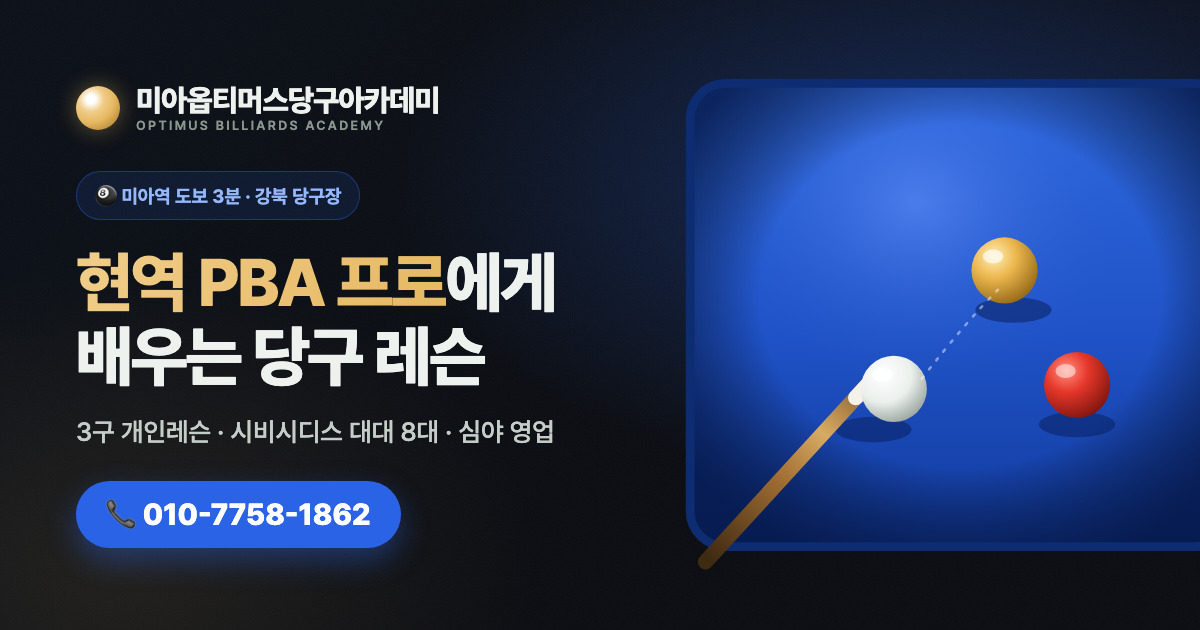
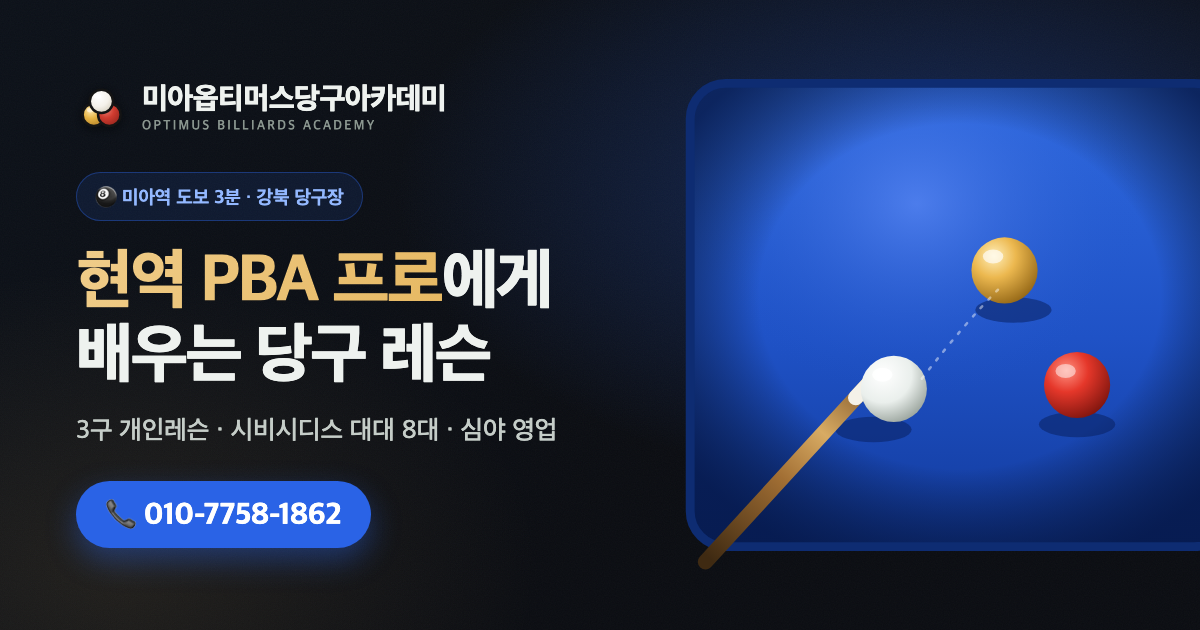
카톡/공유 프리뷰(og.png) 로고 최신화 — og.html 헤더 골드 공 → 3구 세트 로고로 교체 후 1200×630 재렌더. og:image URL에 ?v=2 붙여 카톡·스크레이퍼 캐시 무효화

diff --git a/og.html b/og.html
@@ -33,7 +33,21 @@
 <body>
   <div class="grain"></div>
   <div class="left">
-    <div class="brand"><span class="ball"></span><span><b>미아옵티머스당구아카데미</b><small>OPTIMUS BILLIARDS ACADEMY</small></span></div>
+    <div class="brand">
+      <svg width="50" height="50" viewBox="0 0 120 120" xmlns="http://www.w3.org/2000/svg" style="flex:none;filter:drop-shadow(0 2px 6px rgba(0,0,0,.5));">
+        <defs>
+          <radialGradient id="obw" cx="38%" cy="30%" r="72%"><stop offset="0%" stop-color="#fff"/><stop offset="60%" stop-color="#f4f1ea"/><stop offset="100%" stop-color="#d9d3c4"/></radialGradient>
+          <radialGradient id="oby" cx="36%" cy="30%" r="74%"><stop offset="0%" stop-color="#ffe9ad"/><stop offset="50%" stop-color="#e6b445"/><stop offset="100%" stop-color="#b9862a"/></radialGradient>
+          <radialGradient id="obr" cx="36%" cy="30%" r="74%"><stop offset="0%" stop-color="#e8756a"/><stop offset="48%" stop-color="#cf3b2f"/><stop offset="100%" stop-color="#9a271f"/></radialGradient>
+        </defs>
+        <g stroke="#141414" stroke-width="6">
+          <circle cx="43" cy="76" r="27" fill="url(#oby)"/><ellipse cx="34" cy="65" rx="8" ry="5.5" fill="#fff" opacity=".5" stroke="none"/>
+          <circle cx="80" cy="76" r="27" fill="url(#obr)"/><ellipse cx="71" cy="65" rx="8" ry="5.5" fill="#fff" opacity=".38" stroke="none"/>
+          <circle cx="61" cy="44" r="28" fill="url(#obw)"/><ellipse cx="51" cy="32" rx="9" ry="6" fill="#fff" opacity=".9" stroke="none"/>
+        </g>
+      </svg>
+      <span><b>미아옵티머스당구아카데미</b><small>OPTIMUS BILLIARDS ACADEMY</small></span>
+    </div>
     <span class="eyebrow">🎱 미아역 도보 3분 · 강북 당구장</span>
     <h1><span class="g">현역 PBA 프로</span>에게<br>배우는 당구 레슨</h1>
     <div class="sub">3구 개인레슨 · 시비시디스 대대 8대 · 심야 영업</div>

diff --git a/index.html b/index.html
@@ -18,9 +18,9 @@
 <meta property="og:type" content="website">
 <meta property="og:title" content="미아옵티머스당구아카데미 | 미아 당구 레슨">
 <meta property="og:description" content="3구 개인레슨. 1:1 맞춤 레슨. 레슨 문의.">
-<meta property="og:image" content="https://billiards-lesson.github.io/assets/og.png">
+<meta property="og:image" content="https://billiards-lesson.github.io/assets/og.png?v=2">
 <meta property="og:url" content="https://billiards-lesson.github.io/">
-<meta property="og:locale" content="ko_KR"> <meta property="og:site_name" content="미아옵티머스당구아카데미"> <meta property="og:image:width" content="1200"> <meta property="og:image:height" content="630"> <meta name="twitter:card" content="summary_large_image"> <meta name="twitter:image" content="https://billiards-lesson.github.io/assets/og.png">
+<meta property="og:locale" content="ko_KR"> <meta property="og:site_name" content="미아옵티머스당구아카데미"> <meta property="og:image:width" content="1200"> <meta property="og:image:height" content="630"> <meta name="twitter:card" content="summary_large_image"> <meta name="twitter:image" content="https://billiards-lesson.github.io/assets/og.png?v=2">
 
 <!-- ===== 검색엔진 소유확인 ===== -->
 <meta name="google-site-verification" content="zyJdqCbCgKv1XOKTImbOYKL7qMynX4UuyyeqLdEC56c">
@@ -38,7 +38,7 @@
   "@type": "SportsActivityLocation",
   "name": "미아옵티머스당구아카데미",
   "description": "미아·강북 당구 아카데미. 현 PBA 프로 직강, 1:1 개인·단체 당구 레슨(3구·3쿠션), 시비시디스 대대 8대. 미아역 도보 3분, 매일 새벽 5시까지.",
-  "image": "https://billiards-lesson.github.io/assets/og.png",
+  "image": "https://billiards-lesson.github.io/assets/og.png?v=2",
   "url": "https://billiards-lesson.github.io/",
   "telephone": "+82-10-7758-1862",
   "priceRange": "₩₩",

diff --git a/facility.html b/facility.html
@@ -12,7 +12,7 @@
 <meta property="og:title" content="시설 안내 | 미아옵티머스당구아카데미">
 <meta property="og:description" content="시비시디스 대대 8대, 쾌적한 환경, 심야 영업.">
 <meta property="og:url" content="https://billiards-lesson.github.io/facility.html">
-<meta property="og:locale" content="ko_KR"> <meta property="og:site_name" content="미아옵티머스당구아카데미"> <meta property="og:image" content="https://billiards-lesson.github.io/assets/og.png"> <meta property="og:image:width" content="1200"> <meta property="og:image:height" content="630"> <meta name="twitter:card" content="summary_large_image"> <meta name="twitter:image" content="https://billiards-lesson.github.io/assets/og.png">
+<meta property="og:locale" content="ko_KR"> <meta property="og:site_name" content="미아옵티머스당구아카데미"> <meta property="og:image" content="https://billiards-lesson.github.io/assets/og.png?v=2"> <meta property="og:image:width" content="1200"> <meta property="og:image:height" content="630"> <meta name="twitter:card" content="summary_large_image"> <meta name="twitter:image" content="https://billiards-lesson.github.io/assets/og.png?v=2">
 <link rel="icon" href="assets/favicon.svg" type="image/svg+xml">
 <link rel="stylesheet" href="https://cdn.jsdelivr.net/gh/orioncactus/pretendard@v1.3.9/dist/web/static/pretendard.min.css">
 <link rel="stylesheet" href="css/style.css?v=18">

diff --git a/lesson.html b/lesson.html
@@ -12,7 +12,7 @@
 <meta property="og:title" content="당구 레슨 안내 | 미아옵티머스당구아카데미">
 <meta property="og:description" content="초보 입문부터 고점 원포인트까지, 수준별 1:1 당구 개인레슨 커리큘럼.">
 <meta property="og:url" content="https://billiards-lesson.github.io/lesson.html">
-<meta property="og:locale" content="ko_KR"> <meta property="og:site_name" content="미아옵티머스당구아카데미"> <meta property="og:image" content="https://billiards-lesson.github.io/assets/og.png"> <meta property="og:image:width" content="1200"> <meta property="og:image:height" content="630"> <meta name="twitter:card" content="summary_large_image"> <meta name="twitter:image" content="https://billiards-lesson.github.io/assets/og.png">
+<meta property="og:locale" content="ko_KR"> <meta property="og:site_name" content="미아옵티머스당구아카데미"> <meta property="og:image" content="https://billiards-lesson.github.io/assets/og.png?v=2"> <meta property="og:image:width" content="1200"> <meta property="og:image:height" content="630"> <meta name="twitter:card" content="summary_large_image"> <meta name="twitter:image" content="https://billiards-lesson.github.io/assets/og.png?v=2">
 <link rel="icon" href="assets/favicon.svg" type="image/svg+xml">
 <link rel="stylesheet" href="https://cdn.jsdelivr.net/gh/orioncactus/pretendard@v1.3.9/dist/web/static/pretendard.min.css">
 <link rel="stylesheet" href="css/style.css?v=18">

diff --git a/location.html b/location.html
@@ -12,7 +12,7 @@
 <meta property="og:title" content="오시는 길 | 미아옵티머스당구아카데미">
 <meta property="og:description" content="서울 강북구 미아동 125-25 지하 1층 (미아역 도보 3분).">
 <meta property="og:url" content="https://billiards-lesson.github.io/location.html">
-<meta property="og:locale" content="ko_KR"> <meta property="og:site_name" content="미아옵티머스당구아카데미"> <meta property="og:image" content="https://billiards-lesson.github.io/assets/og.png"> <meta property="og:image:width" content="1200"> <meta property="og:image:height" content="630"> <meta name="twitter:card" content="summary_large_image"> <meta name="twitter:image" content="https://billiards-lesson.github.io/assets/og.png">
+<meta property="og:locale" content="ko_KR"> <meta property="og:site_name" content="미아옵티머스당구아카데미"> <meta property="og:image" content="https://billiards-lesson.github.io/assets/og.png?v=2"> <meta property="og:image:width" content="1200"> <meta property="og:image:height" content="630"> <meta name="twitter:card" content="summary_large_image"> <meta name="twitter:image" content="https://billiards-lesson.github.io/assets/og.png?v=2">
 <link rel="icon" href="assets/favicon.svg" type="image/svg+xml">
 <link rel="stylesheet" href="https://cdn.jsdelivr.net/gh/orioncactus/pretendard@v1.3.9/dist/web/static/pretendard.min.css">
 <link rel="stylesheet" href="css/style.css?v=18">

diff --git a/pricing.html b/pricing.html
@@ -12,7 +12,7 @@
 <meta property="og:title" content="레슨 요금 | 미아옵티머스당구아카데미">
 <meta property="og:description" content="현 PBA 프로 직강 당구 레슨 요금 안내. 초보 입문·정규·원포인트.">
 <meta property="og:url" content="https://billiards-lesson.github.io/pricing.html">
-<meta property="og:locale" content="ko_KR"> <meta property="og:site_name" content="미아옵티머스당구아카데미"> <meta property="og:image" content="https://billiards-lesson.github.io/assets/og.png"> <meta property="og:image:width" content="1200"> <meta property="og:image:height" content="630"> <meta name="twitter:card" content="summary_large_image"> <meta name="twitter:image" content="https://billiards-lesson.github.io/assets/og.png">
+<meta property="og:locale" content="ko_KR"> <meta property="og:site_name" content="미아옵티머스당구아카데미"> <meta property="og:image" content="https://billiards-lesson.github.io/assets/og.png?v=2"> <meta property="og:image:width" content="1200"> <meta property="og:image:height" content="630"> <meta name="twitter:card" content="summary_large_image"> <meta name="twitter:image" content="https://billiards-lesson.github.io/assets/og.png?v=2">
 <link rel="icon" href="assets/favicon.svg" type="image/svg+xml">
 <link rel="stylesheet" href="https://cdn.jsdelivr.net/gh/orioncactus/pretendard@v1.3.9/dist/web/static/pretendard.min.css">
 <link rel="stylesheet" href="css/style.css?v=18">